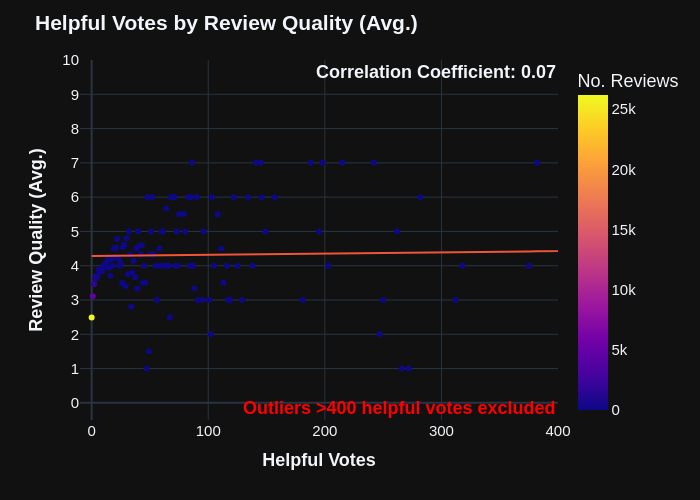
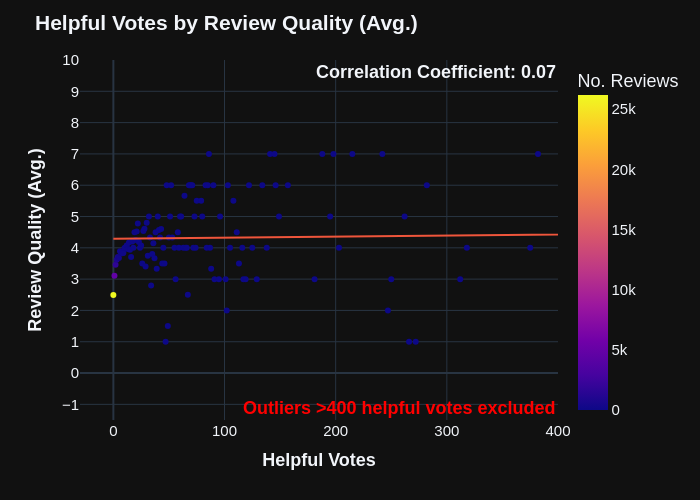
docs: refined plot axes for helpful

diff --git a/src/analyse.py b/src/analyse.py
@@ -317,8 +317,8 @@ fig = scatter(
     label_x="Helpful Votes",
     label_y="Review Quality (Avg.)",
     label_z="No. Reviews",
-    xrange=[-10, 400],
-    yrange=[-0.5, 10],
+    xrange=[-30, 400],
+    yrange=[-1.5, 10],
     ytick=1,
     correlation=eval_help_pearson,
     outlier=True,
@@ -338,8 +338,8 @@ fig = scatter(
     label_x="Helpful Votes",
     label_y="Review Quality (Avg.)",
     label_z="No. Reviews",
-    xrange=[-10, 400],
-    yrange=[-0.5, 10],
+    xrange=[-30, 400],
+    yrange=[-1.5, 10],
     ytick=1,
     correlation=eval_help_pearson,
     outlier=True,
